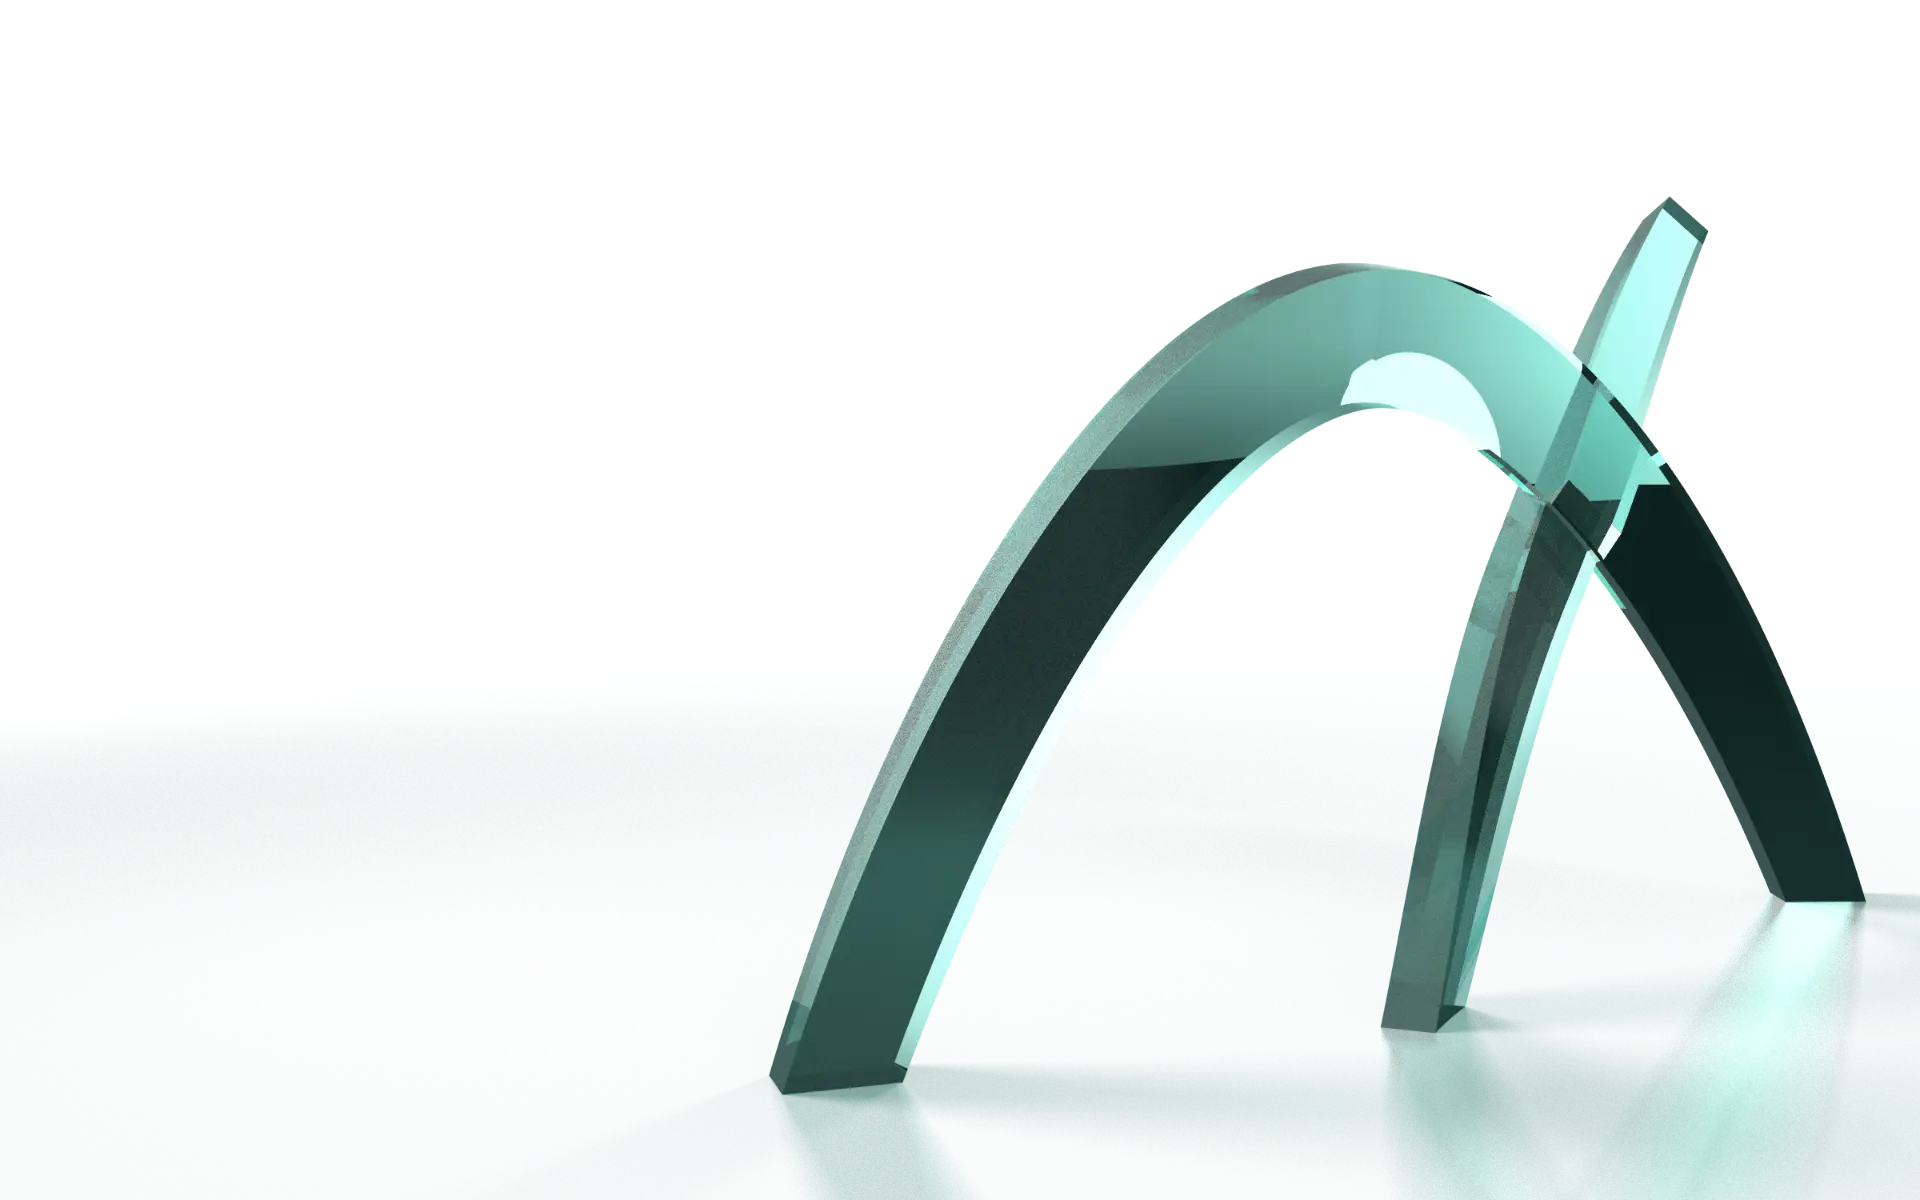
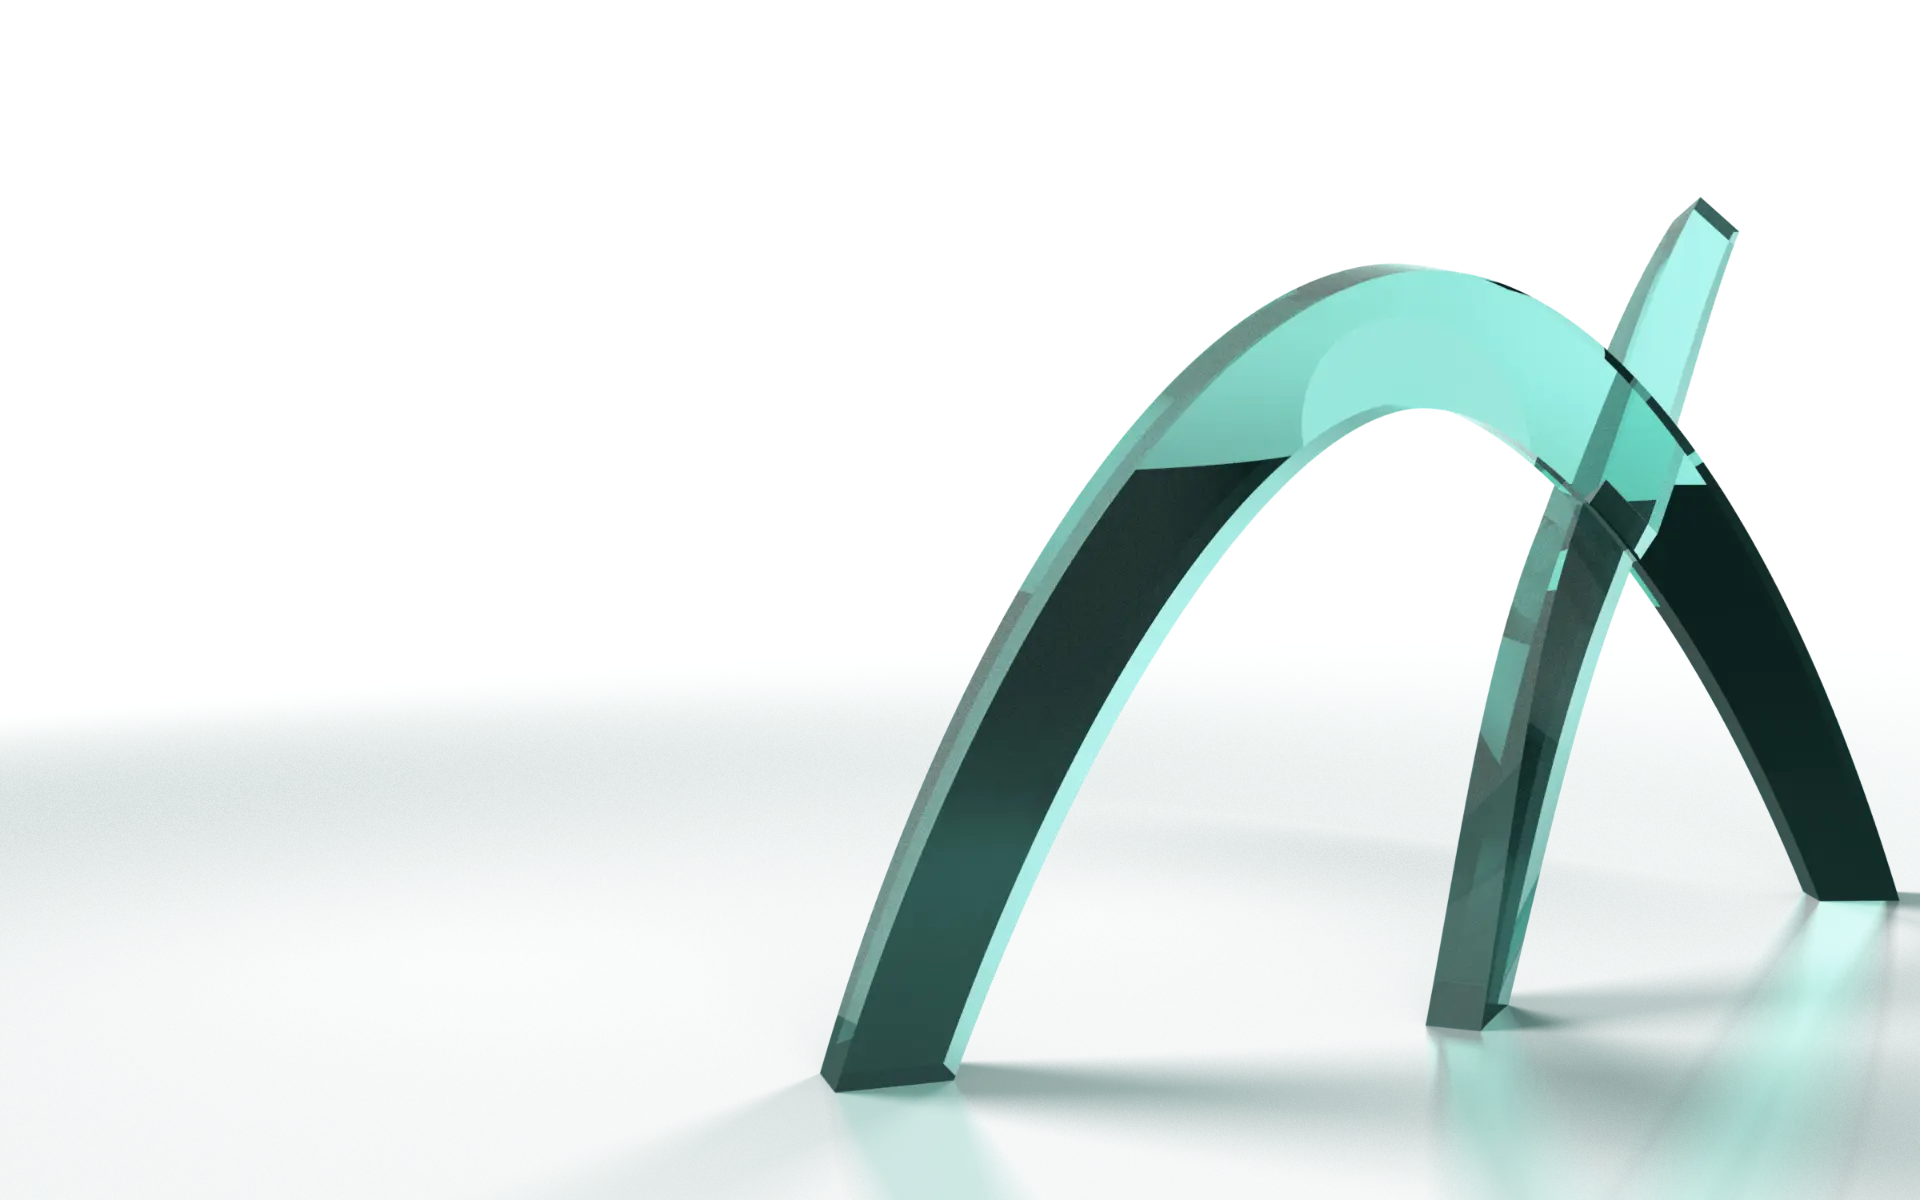
feat(home): ヒーロー4枚を仕上げのレンダに差し替え、場面1が見えている間は場を暗くしない(判定行・3コミットで1出荷)
- images/hero/ 4枚: spp 128・テント型フィルタ・1サンプルの輝度上限・床の決定的サンプリング・柔らかい光源と緩やかなトーンマップ。白飛び(>250 の画素)9.67%→0.006%、床の粒状の分散 45% 減、輪郭のスペックル解消、吸収を1段濃く(designer 原寸比較: 素材 6.5→8.5・構図 6.5 のまま未完成)
- --pbg(昼→夜)を p 0.30 から始め、場面1の黒い見出しが夜の場に乗らないようにする
- shiplog 判定行: code pass / design incomplete

Claude-Session: https://claude.ai/code/session_01PQikHBZx83RNbjPtefUL7J

Changed region(s): [[0.4062, 0.1542, 1.0, 1.0]]

diff --git a/index.html b/index.html
@@ -322,7 +322,7 @@ html:not(.js) .scene2{display:none}
     stage.style.setProperty('--p', p.toFixed(4));
     stage.style.setProperty('--p1', clamp(p / 0.4).toFixed(4));                     // 場面1の見出しが上へ退く
     stage.style.setProperty('--p2', ease(clamp((p - 0.25) / 0.35)).toFixed(4));    // 実画面がせり上がる(0.6 で定位置)
-    stage.style.setProperty('--pbg', clamp((p - 0.1) / 0.4).toFixed(4));           // 明るい場 → 夜
+    stage.style.setProperty('--pbg', clamp((p - 0.30) / 0.30).toFixed(4));         // 明るい場 → 夜(場面1が見えている間は暗くしない)
     if (active === 1 && p >= SW_ON) active = 2; else if (active === 2 && p <= SW_OFF) active = 1;
     if (stage.getAttribute('data-active') !== String(active)) {
       stage.setAttribute('data-active', String(active));
